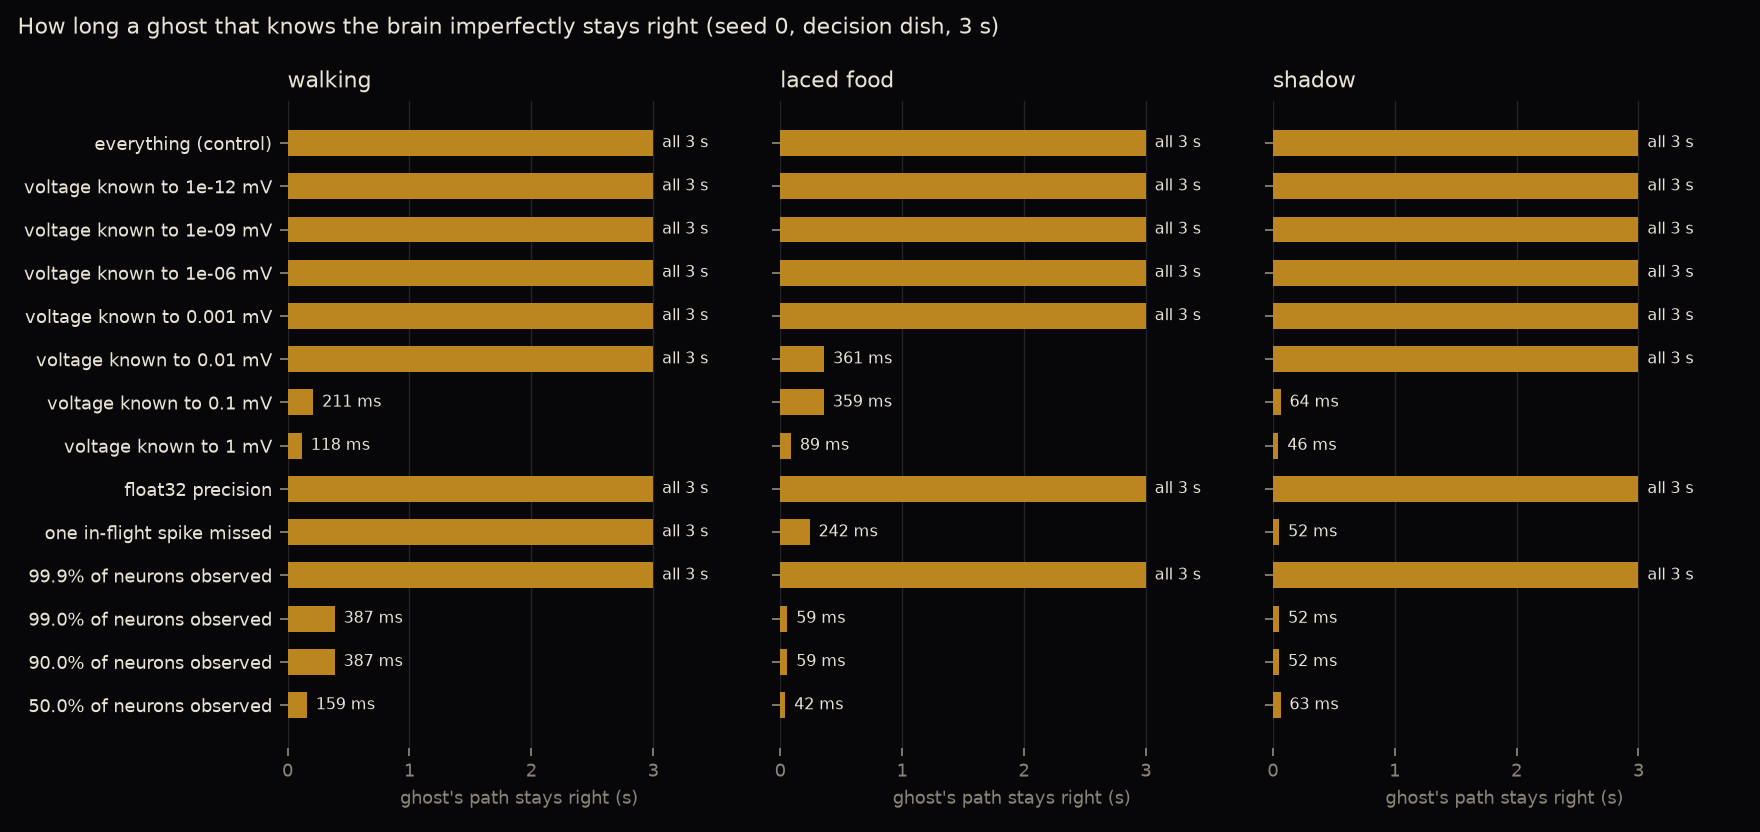
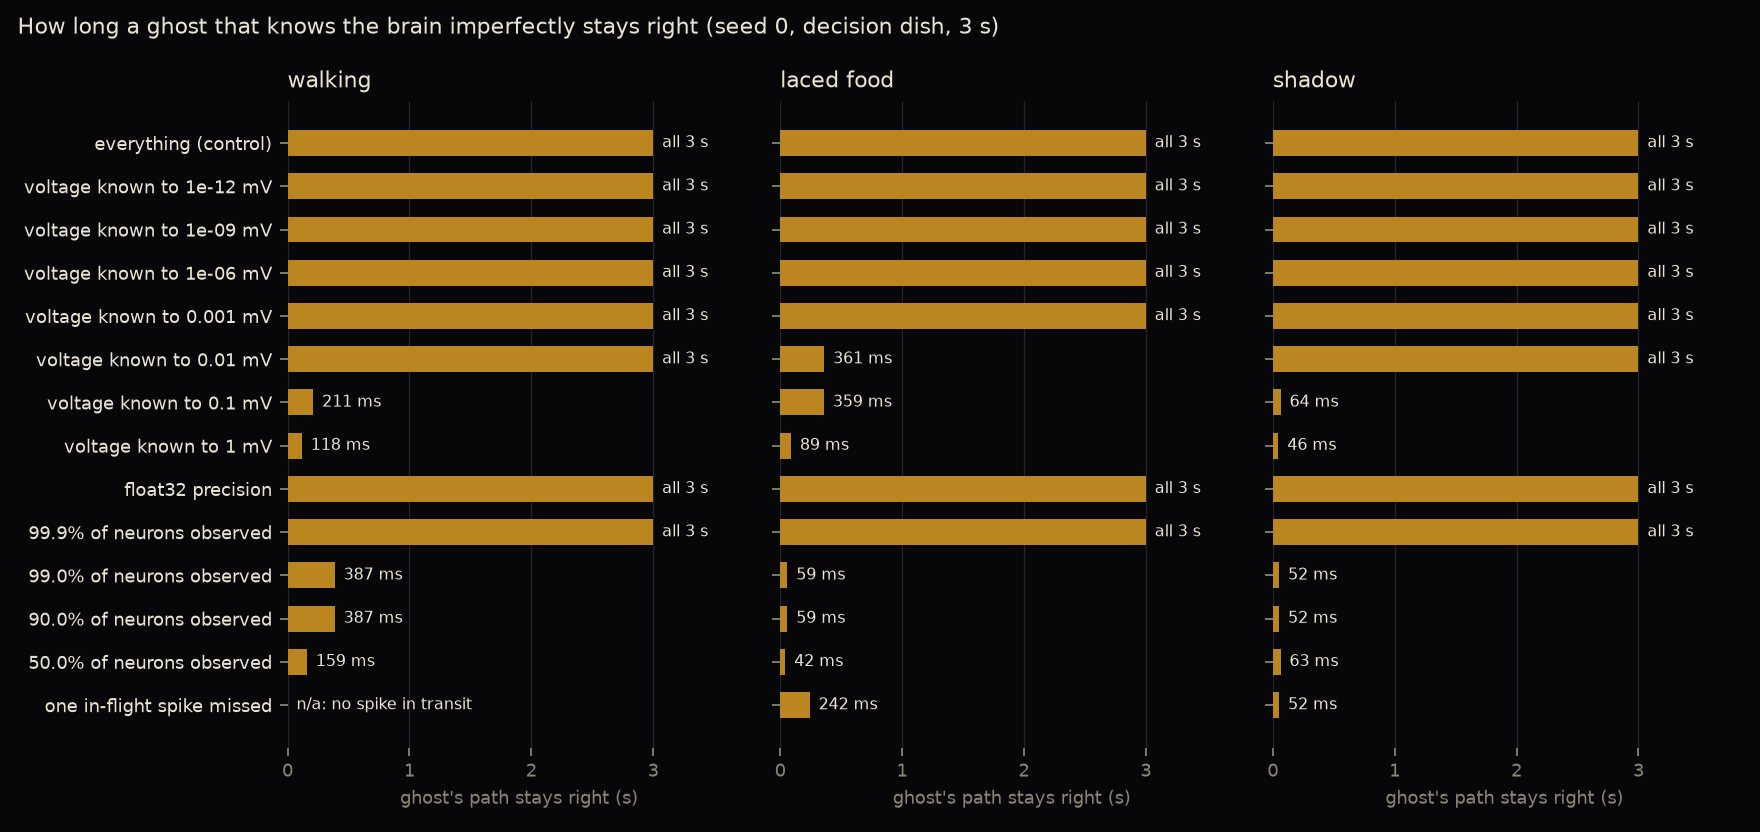
fix: a missed spike is refused when none is in transit (ADR-0038)
blur() silently returned an unchanged state when no spike was travelling,
which happened at seed 0's walking moment: those ghosts were perfect
copies. It now raises NoSpikeInTransit; the horizon study reports such
cases as not made. Void rows removed from horizon.csv (1) and
horizon_v2.csv (3); plots show n/a; ADR-0037 and 0038 corrected (walking
missed spike: 6/6, not 9/9). Found by the backward-horizon pilot.

diff --git a/scripts/horizon_study.py b/scripts/horizon_study.py
@@ -27,7 +27,7 @@ from tramlines.brain.connectome import Connectome, load_connectome
 from tramlines.brain.engine import enable_determinism
 from tramlines.brain.neurons import load_catalog
 from tramlines.timeline.divergence import first_divergence_ms, path_distance_mm
-from tramlines.timeline.perturb import Knowledge, blur
+from tramlines.timeline.perturb import Knowledge, NoSpikeInTransit, blur
 from tramlines.timeline.timeline import Pose, Timeline
 from tramlines.world.arena import DECISION_ARENA
 from tramlines.world.decoder import FlyDecoder
@@ -95,7 +95,10 @@ def run_one(job: Job) -> tuple[int, str, Knowledge | None, bool, list[Pose], lis
     connectome, senses, decoder = parts()
     timeline = Timeline.load(path, connectome, DECISION_ARENA, senses, decoder)
     if knowledge is not None:
-        blur(timeline.brain.state, knowledge)
+        try:
+            blur(timeline.brain.state, knowledge)
+        except NoSpikeInTransit:
+            return seed, moment, knowledge, truth, [], []  # reported as "nothing to miss"
     poses, spikes = timeline.run_recording(HORIZON_MS)
     keys = (spikes.steps * connectome.n_neurons + spikes.neurons).tolist()
     return seed, moment, knowledge, truth, poses, keys
@@ -162,14 +165,11 @@ def main() -> None:
                   flush=True)  # fmt: skip
 
     truth = {(s, m): (poses, keys) for s, m, _, is_truth, poses, keys in results if is_truth}
-    rows = []
+    rows, skipped = [], []
     for seed, moment, knowledge, is_truth, poses, keys in results:
         if is_truth:
             continue
         true_poses, true_keys = truth[seed, moment]
-        distances = path_distance_mm(poses, true_poses)
-        first_path = first_divergence_ms(distances, EPSILON_MM)
-        start_step = MOMENTS_MS[moment] * 10
         row: dict[str, object] = {"moment": moment}
         if args.tag:
             row |= {
@@ -178,8 +178,15 @@ def main() -> None:
                 else knowledge.seed,
                 "fly_at_moment": where[seed, moment],
             }  # fmt: skip
+        described = "everything (control)" if knowledge is None else knowledge.describe()
+        if not poses:  # nothing in transit to miss: no ghost was made (ADR-0038)
+            skipped.append(f"{moment}, seed {seed}: {described}: none in transit")
+            continue
+        distances = path_distance_mm(poses, true_poses)
+        first_path = first_divergence_ms(distances, EPSILON_MM)
+        start_step = MOMENTS_MS[moment] * 10
         row |= {
-            "ghost_knows": "everything (control)" if knowledge is None else knowledge.describe(),
+            "ghost_knows": described,
             "first_spike_difference_ms": first_spike_difference_ms(
                 keys, true_keys, connectome.n_neurons, start_step
             ),
@@ -196,6 +203,8 @@ def main() -> None:
         writer.writeheader()
         writer.writerows(rows)
     print(f"wrote {out.name}")
+    for line in skipped:
+        print(f"skipped ({line})")
     summarize(rows)
 
 

diff --git a/scripts/plot_horizon.py b/scripts/plot_horizon.py
@@ -51,6 +51,13 @@ def plot_distributions(tag: str) -> None:
                        linewidths=0)  # fmt: skip
             right = sum(v >= 3 for v in values)
             ax.annotate(f"{right}/{len(values)}", (3.08, i), va="center", color=INK, fontsize=7)
+            expected = max(
+                sum(r["ghost_knows"] == label for r in rows if r["moment"] == m) for m in moments
+            )
+            if len(values) < expected:  # some ghosts could not be made (ADR-0038)
+                missing = expected - len(values)
+                ax.annotate(f"({missing} not made: none in transit)", (1.2, i), va="center",
+                            color=MUTED, fontsize=6)  # fmt: skip
         ax.set_title(moment, color=INK, fontsize=10, loc="left")
         ax.set_xlim(-0.05, 3.5)
         ax.set_xticks([0, 1, 2, 3])
@@ -88,11 +95,14 @@ def plot_first_pass() -> None:
     for ax, moment in zip(axes, moments, strict=True):
         ax.set_facecolor(surface)
         mine = {r["ghost_knows"]: r for r in rows if r["moment"] == moment}
-        values = [int(mine[label]["path_stays_right_ms"]) / 1000 for label in labels]
+        # A case can be missing: no spike in transit to miss at that moment (ADR-0038).
+        values = [int(mine[label]["path_stays_right_ms"]) / 1000 if label in mine else 0.0
+                  for label in labels]  # fmt: skip
         y = range(len(labels))
         ax.barh(list(y), values, color=gold, height=0.6)
         for i, v in zip(y, values, strict=True):
-            text = "all 3 s" if v >= 3 else f"{v * 1000:.0f} ms"
+            text = ("n/a: no spike in transit" if labels[i] not in mine
+                    else "all 3 s" if v >= 3 else f"{v * 1000:.0f} ms")  # fmt: skip
             ax.annotate(text, (v, i), xytext=(4, 0), textcoords="offset points", va="center",
                         color=ink, fontsize=7)  # fmt: skip
         ax.set_title(moment, color=ink, fontsize=10, loc="left")

diff --git a/tramlines/timeline/perturb.py b/tramlines/timeline/perturb.py
@@ -22,6 +22,10 @@ from tramlines.brain.state import BrainState
 Kind = Literal["voltage", "drop_spike", "float32", "partial"]
 
 
+class NoSpikeInTransit(ValueError):
+    """A quiet brain can have no spike travelling at a given moment: nothing to miss."""
+
+
 @dataclass(frozen=True)
 class Knowledge:
     """How the ghost's knowledge differs from the truth.
@@ -56,9 +60,11 @@ def blur(state: BrainState, knowledge: Knowledge) -> None:
         )
     elif knowledge.kind == "drop_spike":
         in_flight = torch.nonzero(state.in_flight)
-        if len(in_flight):
-            slot, neuron = in_flight[int(torch.randint(len(in_flight), (1,), generator=noise))]
-            state.in_flight[int(slot), int(neuron)] = False
+        if not len(in_flight):
+            # Doing nothing here would silently make this ghost a perfect copy (ADR-0038).
+            raise NoSpikeInTransit("no spike in transit to miss at this moment")
+        slot, neuron = in_flight[int(torch.randint(len(in_flight), (1,), generator=noise))]
+        state.in_flight[int(slot), int(neuron)] = False
     elif knowledge.kind == "float32":
         state.v_mV.copy_(state.v_mV.to(torch.float32).to(torch.float64))
         state.g_mV.copy_(state.g_mV.to(torch.float32).to(torch.float64))

diff --git a/tests/test_perturb.py b/tests/test_perturb.py
@@ -1,11 +1,12 @@
 """Imperfect knowledge for the ghost (ADR-0035, Result 1)."""
 
+import pytest
 import torch
 from _scenarios import small
 
 from tramlines.brain.engine import Brain
 from tramlines.brain.params import PARAMS
-from tramlines.timeline.perturb import Knowledge, blur
+from tramlines.timeline.perturb import Knowledge, NoSpikeInTransit, blur
 
 
 def moment() -> Brain:
@@ -53,3 +54,10 @@ def test_same_seed_same_error() -> None:
     blur(a.state, Knowledge("voltage", 1e-3, seed=7))
     blur(b.state, Knowledge("voltage", 1e-3, seed=7))
     assert a.state.fingerprint() == b.state.fingerprint()
+
+
+def test_missing_a_spike_refuses_when_none_is_in_transit() -> None:
+    brain = moment()
+    brain.state.in_flight.zero_()
+    with pytest.raises(NoSpikeInTransit):
+        blur(brain.state, Knowledge("drop_spike"))

diff --git a/docs/decisions/0038-result-1-second-pass.md b/docs/decisions/0038-result-1-second-pass.md
@@ -18,7 +18,7 @@ Option 1. `scripts/horizon_study.py` gains `--seeds`, `--draws`, `--set v2` and 
 
 **Self-check:** seed 0 with draw 0 uses exactly the first pass's errors. All 27 cases the two passes share came out identical, field for field.
 
-![Three panels (walking, laced food, shadow), one dot per ghost, with the count of ghosts right for all 3 s. Walking: nearly every ghost stays right except voltage error of 1 mV (2/9). Laced food: most kinds fail; even 0.001 mV fails 4 of 9 times; one missed spike fails 9 of 9. Shadow: 0.001 mV and 99.9% observation stay right 9 of 9; 0.03 mV and above, and one missed spike, mostly fail within 50–330 ms.](../assets/horizon_v2.png)
+![Three panels (walking, laced food, shadow), one dot per ghost, with the count of ghosts right for all 3 s. Walking: nearly every ghost stays right except voltage error of 1 mV (2/9). Laced food: most kinds fail; even 0.001 mV fails 4 of 9 times; one missed spike fails 9 of 9; while walking it stays right 6 of 6 (3 not made: no spike in transit). Shadow: 0.001 mV and 99.9% observation stay right 9 of 9; 0.03 mV and above, and one missed spike, mostly fail within 50–330 ms.](../assets/horizon_v2.png)
 
 ## Findings (second pass: 3 seeds; 9 ghosts per random error, 3 per fixed one)
 
@@ -31,17 +31,19 @@ Option 1. `scripts/horizon_study.py` gains `--seeds`, `--draws`, `--set v2` and 
 | voltage to 0.03 mV | 8/9 | 1/9 | 3/9 |
 | voltage to 0.1 mV | 7/9 | 0/9 | 1/9 |
 | voltage to 1 mV | 2/9 | 0/9 | 0/9 |
-| one in-flight spike missed | **9/9** | **0/9** | **1/9** |
+| one in-flight spike missed | **6/6**† | **0/9** | **1/9** |
 | 99.9% of neurons | 9/9 | 6/9 | 9/9 |
 | 99.5% of neurons | 8/9 | 4/9 | 6/9 |
 | 99.0% of neurons | 6/9 | 2/9 | 4/9 |
 
-Ghosts right for all 3 s (paths within 0.1 mm). When a ghost fails, it fails fast: median 78–347 ms, range 36–537 ms.
+Ghosts right for all 3 s (paths within 0.1 mm).
 
-1. **The missed spike holds up, and is the sharpest result.** Missing one spike in transit never matters while the fly walks (9/9 right) and almost always matters at a decision point (laced food 0/9, shadow 1/9, wrong within 52–359 ms).
+† Corrected 2026-10-24 (was 9/9): at the walking moment of seed 0 no spike was in transit, so `blur` silently made a perfect copy; those 3 runs are removed from the data and `blur` now refuses (`tramlines/timeline/perturb.py`, found by the backward-horizon pilot). Seeds 1 and 2 had 2–3 spikes in transit; all 6 of their ghosts stayed right. When a ghost fails, it fails fast: median 78–347 ms, range 36–537 ms.
+
+1. **The missed spike holds up, and is the sharpest result.** Missing one spike in transit never mattered while the fly walked (6/6 right; 3 more runs had no spike in transit and were void) and almost always matters at a decision point (laced food 0/9, shadow 1/9, wrong within 52–359 ms).
 2. **The first pass was too kind to small voltage errors.** At the laced food, voltages known to a thousandth of a millivolt still failed in 4 of 9 ghosts (within 177–347 ms), and 0.01 mV failed in all 9. Seed 0, the only seed of the first pass, happened to be one where 0.001 mV survived. At this decision there is no "good enough" voltage precision within the range tested.
 3. **Float32 is always enough** (9/9 runs across moments). Its error is far smaller than 0.001 mV (about 10⁻⁶ mV at these voltages).
-4. **Timing matters more than precision.** The "walking" ghosts start at 0.5 s and run 3 s, so they pass through the same laced food and the same shadow as the others, yet with 0.01 mV error they stay right 9/9 and with a missed spike 9/9. The same errors made *at* the decision fail almost every time. A difference made while the brain is not deciding fades within the ~0.7 s before the fly reaches the food; a difference made on the edge does not. This matches the divergence studies ([ADR-0036](0036-walking-drive-upstream-of-p9.md)): the brain forgets small differences unless they land on a threshold.
+4. **Timing matters more than precision.** The "walking" ghosts start at 0.5 s and run 3 s, so they pass through the same laced food and the same shadow as the others, yet with 0.01 mV error they stay right 9/9 and with a missed spike 6/6. The same errors made *at* the decision fail almost every time. A difference made while the brain is not deciding fades within the ~0.7 s before the fly reaches the food; a difference made on the edge does not. This matches the divergence studies ([ADR-0036](0036-walking-drive-upstream-of-p9.md)): the brain forgets small differences unless they land on a threshold.
 5. **Seeing 99.9% of neurons is not quite enough at the laced food** (6/9; about 140 neurons unseen). Elsewhere it is.
 
 **In one sentence:** what a demon must know depends on when it looks; while the fly walks, rough knowledge foresees it for seconds, but at a decision even a thousandth of a millivolt or one spike in flight can be the difference.

diff --git a/docs/decisions/0037-result-1-predictability-horizon.md b/docs/decisions/0037-result-1-predictability-horizon.md
@@ -5,7 +5,7 @@
 - Phase: 5
 - Decider: Claude (delegated)
 
-> **Second pass:** [ADR-0038](0038-result-1-second-pass.md) repeats this on 3 seeds with 3 draws each. Finding 1 below does not hold at the laced food, where even 0.001 mV fails about half the time.
+> **Second pass:** [ADR-0038](0038-result-1-second-pass.md) repeats this on 3 seeds with 3 draws each. Finding 1 below does not hold at the laced food, where even 0.001 mV fails about half the time. Finding 3's walking case is void: no spike was in transit (correction, 2026-10-24).
 
 ## Context
 ADR-0035 asks how much you must know about a brain to predict it. The perfect ghost (a bit-exact copy) is the control and is always right. Here the ghost is given *imperfect* knowledge of the brain at a chosen moment, and we measure how long its predicted path stays right.
@@ -23,7 +23,7 @@ ADR-0035 asks how much you must know about a brain to predict it. The perfect gh
 ## Findings (first pass)
 1. **Continuous error barely matters.** Voltages known to within 10⁻¹² … 10⁻³ mV, or the whole state in float32: the ghost's path is right for all 3 s at every moment. At 0.001 mV on the laced food some spikes differ at once, yet the behaviour never does. Errors this small decay; this model is stable, not chaotic.
 2. **The edge for continuous error sits between 0.01 and 0.1 mV.** At 0.01 mV the ghost still walks right (except on laced food: 361 ms); at 0.1–1 mV it is wrong within 46–359 ms, predicting jumps and meals that never happen.
-3. **A single missed spike is decisive at decision points and harmless elsewhere.** Missing one spike in transit: right for all 3 s while walking, wrong within **242 ms** on laced food and **52 ms** under the shadow (it predicts an escape that never comes).
+3. **A single missed spike is decisive at decision points and harmless elsewhere.** Missing one spike in transit: ~~right for all 3 s while walking~~ (**correction, 2026-10-24:** at that moment of seed 0 no spike was in transit, so this ghost was a perfect copy and the walking result is void; [ADR-0038](0038-result-1-second-pass.md) has the corrected count from other seeds), wrong within **242 ms** on laced food and **52 ms** under the shadow (it predicts an escape that never comes).
 4. **You must see almost everything.** Observing 99.9% of neurons (about 140 unseen): right for all 3 s. Observing 99% (about 1,400 unseen): wrong within 52–387 ms everywhere.
 
 **In one sentence:** to foresee this brain you need to know nearly every neuron and every spike in flight; you do not need its voltages to more than about a hundredth of a millivolt.

diff --git a/docs/journal/2026-10-24-session-9.md b/docs/journal/2026-10-24-session-9.md
@@ -4,7 +4,7 @@
 
 - **Result 1, second pass** ([ADR-0038](../decisions/0038-result-1-second-pass.md)). `horizon_study.py` takes `--seeds`, `--draws`, `--set v2` and `--tag`, and prints progress per run; `plot_horizon.py --tag v2` draws one dot per ghost. 270 ghosts: 3 seeds × 3 moments × 3 draws of every random error.
   - **Self-check:** the 27 cases shared with the first pass reproduced exactly.
-  - **One missed spike:** harmless while walking (9/9 right), decisive at decisions (laced food 0/9, shadow 1/9).
+  - **One missed spike:** harmless while walking (6/6 right; corrected from 9/9, see below), decisive at decisions (laced food 0/9, shadow 1/9).
   - **Correction:** at the laced food even 0.001 mV of voltage error fails 4 of 9 ghosts. The first pass's single seed was a lucky one.
   - **Timing beats precision:** ghosts started while walking pass through the same decisions and stay right; the same errors made at the decision fail.
 - The first run was stopped at the owner's request and restarted this session.
@@ -14,6 +14,8 @@
   - **Decoder-free:** null brains still carry readable sense signals (10–12/12), but they stop about one synapse in; real wiring carries them hundreds of neurons deep and into the movement neurons.
   - **Partial rewiring (exploratory):** walking, feeding and escape survive a quarter of the wiring scrambled; rejecting bitter-laced food breaks first, from 5%; mid-range brains run away (about 10,000 neurons active).
   - **The owner asked whether the experiment fits our expectations.** Predictions are now written before results ([predictions](../science/null-brain-predictions.md)): 9 of 10 sweep predictions held, the decoder-free ones held. ADR-0036 was corrected where it claimed full-state re-convergence from a spike-only measurement.
+
+- **Bug found by the backward-horizon pilot:** "one missed spike" did nothing when no spike was in transit, which was the case at seed 0's walking moment. Result 1's walking count drops from 9/9 to 6/6 (the conclusion stands; the first pass's walking claim was void). `blur` now refuses, and the void runs are removed.
 
 ## Decisions made
 

diff --git a/docs/decisions/history.md b/docs/decisions/history.md
@@ -79,3 +79,4 @@ Every choice, in the order it was made, with who made it. The ADRs hold the reas
 | 71 | 2026-10-24 | Owner asked whether the experiment fits our expectations: predictions now written before results, and a decoder-free test added | Owner question; test delegated | [predictions](../science/null-brain-predictions.md) |
 | 72 | 2026-10-24 | ADR-0036 corrected: brain "re-convergence" at the shadow was measured on spikes only, not the full state | Delegated (honesty, L10) | [0036](0036-walking-drive-upstream-of-p9.md) |
 | 73 | 2026-10-24 | Proposed to the owner: a "backward horizon" (can a demon recover the past?), not yet drafted | Awaiting owner | [owner decisions](../owner-decisions.md) |
+| 74 | 2026-10-24 | Bug: "one missed spike" silently did nothing when no spike was in transit (seed 0, walking). `blur` now refuses; void runs removed; ADR-0037/0038 corrected (walking: 6/6, not 9/9) | Delegated (honesty, L10) | [0038](0038-result-1-second-pass.md) |
